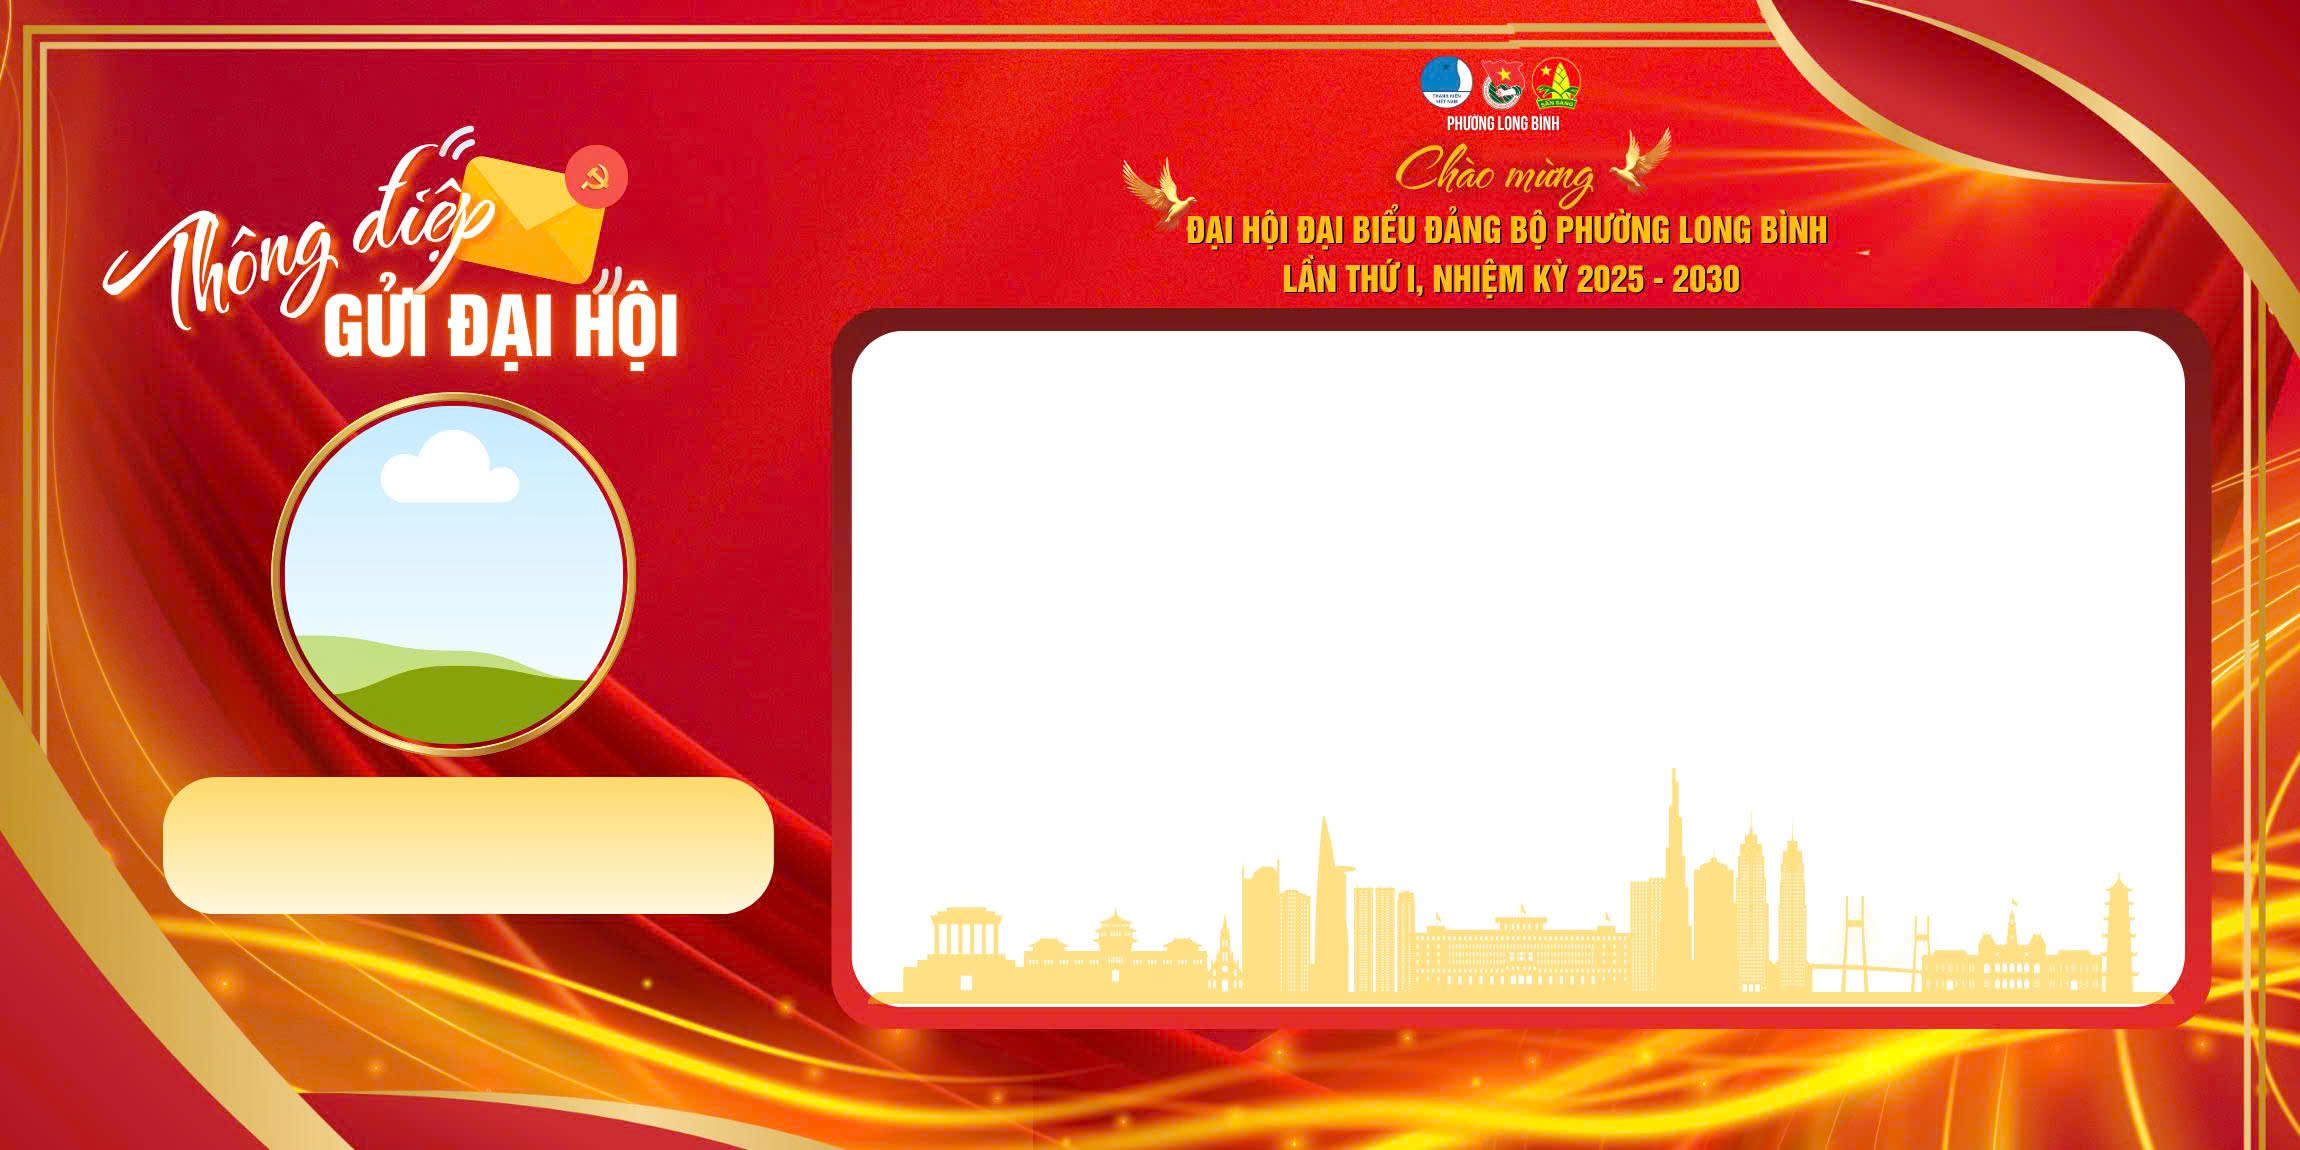
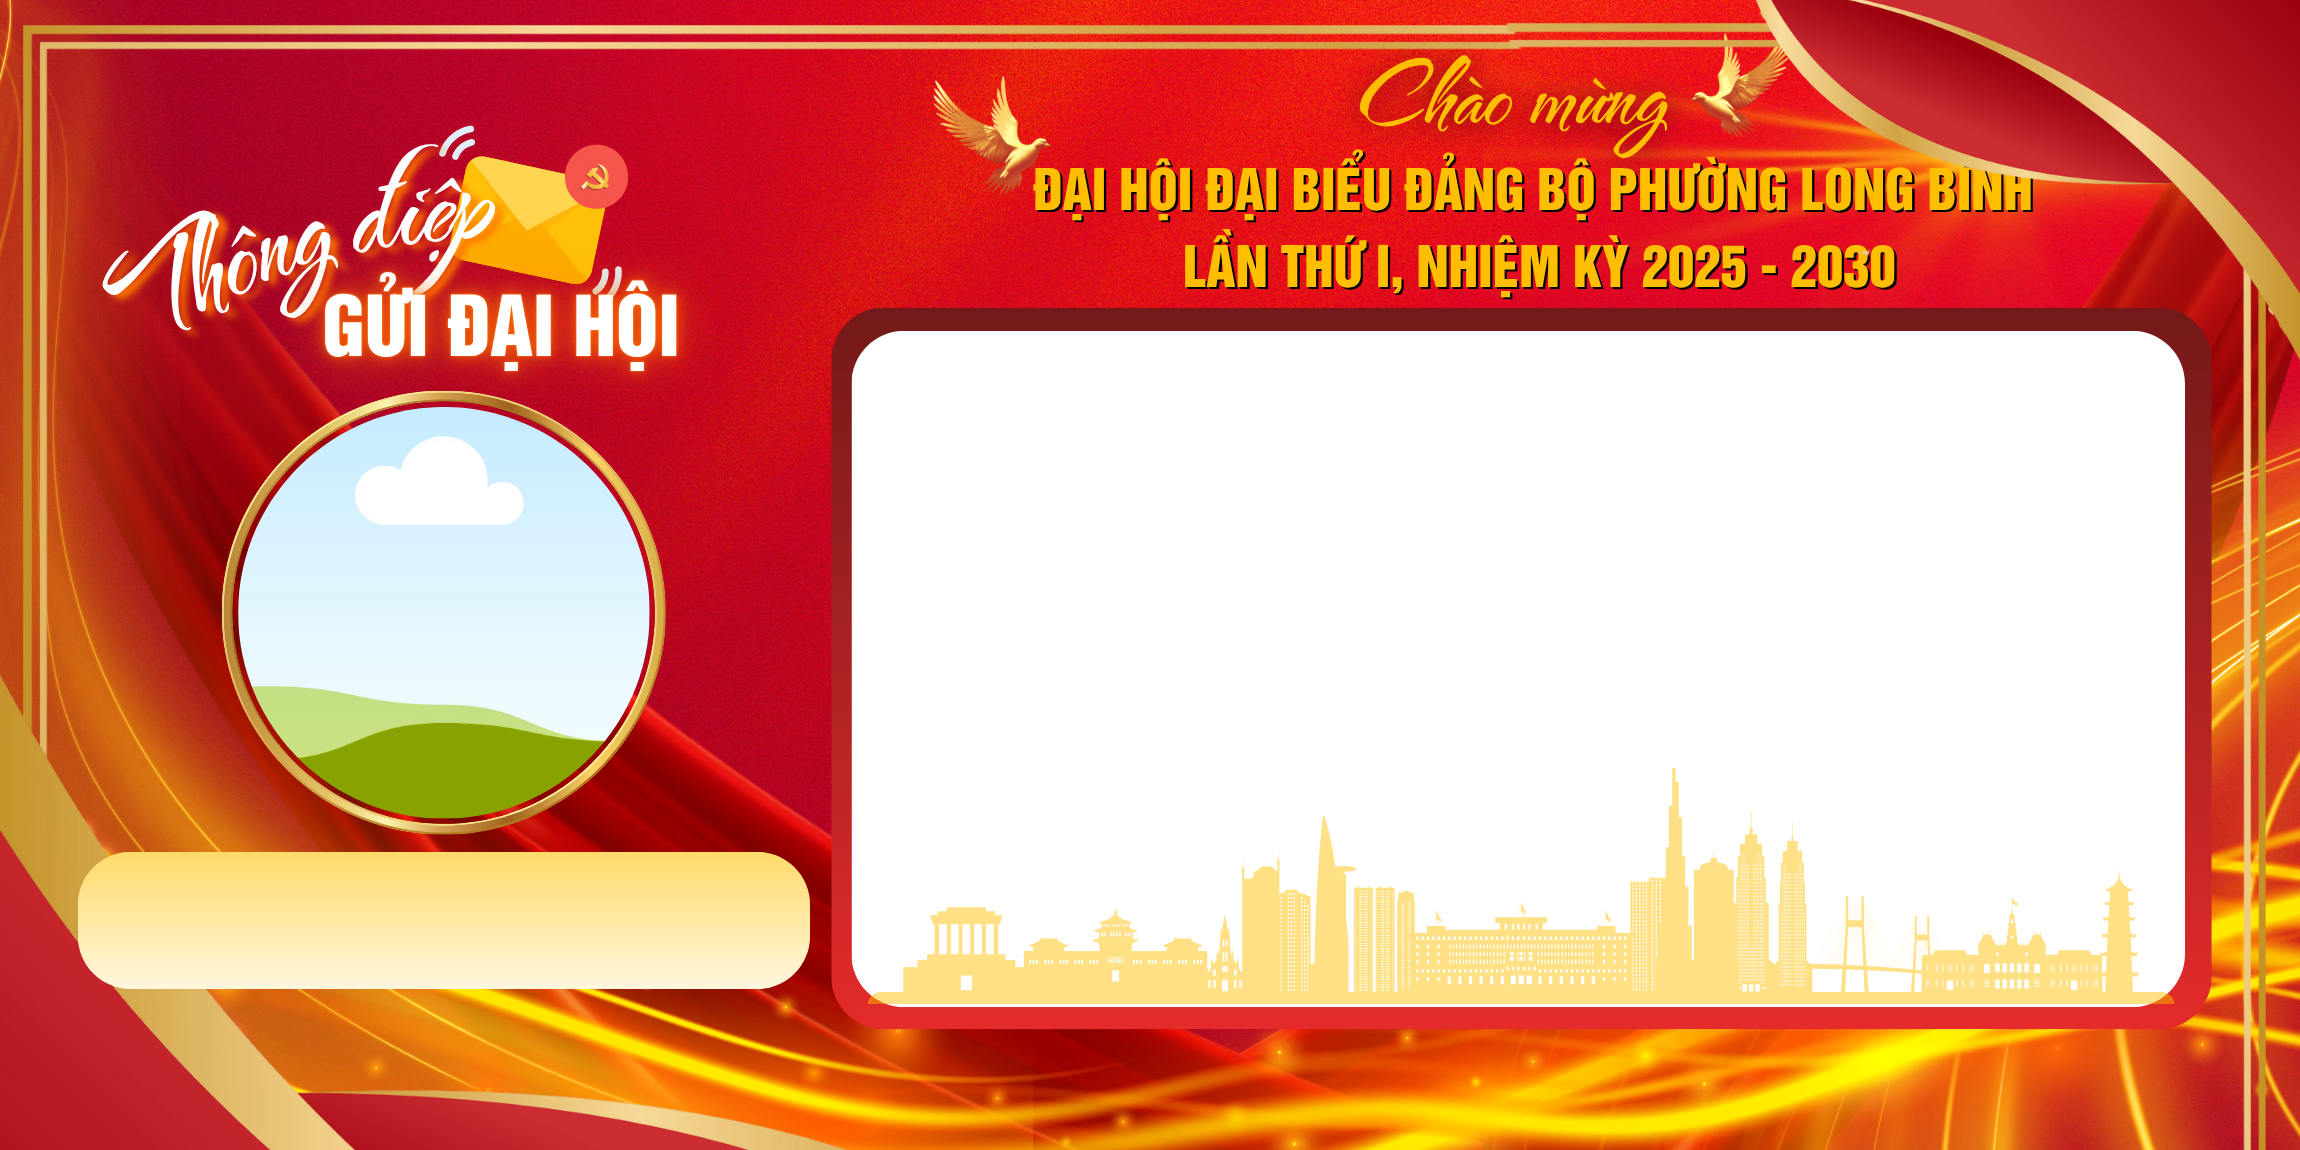
update

diff --git a/assets/js/script.js b/assets/js/script.js
@@ -88,10 +88,10 @@ class MessageCreator {
     const name = this.nameInput.value.trim();
     this.previewName.textContent = name ? `Đồng chí ${name}` : "";
 
-    const baseNameSize = 16;
+    const baseNameSize = window.innerWidth < 768 ? 6 : 16;
     let nameLength = name.length;
     if (nameLength > 0) {
-      let scale = Math.max(0.6, 1 - (nameLength - 10) * 0.02);
+      let scale = Math.max(0.6, 1 - (nameLength - 15) * 0.02);
       this.previewName.style.fontSize = `${baseNameSize * scale}px`;
     } else {
       this.previewName.style.fontSize = `${baseNameSize}px`;
@@ -100,10 +100,10 @@ class MessageCreator {
     const role = this.roleInput.value.trim();
     this.previewRole.textContent = role;
 
-    const baseRoleSize = 16;
+    const baseRoleSize = window.innerWidth < 768 ? 6 : 16;
     let roleLength = role.length;
     if (roleLength > 0) {
-      let scale = Math.max(0.6, 1 - (roleLength - 10) * 0.02);
+      let scale = Math.max(0.6, 1 - (roleLength - 15) * 0.02);
       this.previewRole.style.fontSize = `${baseRoleSize * scale}px`;
     } else {
       this.previewRole.style.fontSize = `${baseRoleSize}px`;
@@ -111,15 +111,6 @@ class MessageCreator {
 
     const message = this.messageInput.value.trim();
     this.previewMessage.textContent = message;
-
-    const baseMsgSize = 16;
-    let msgLength = message.length;
-    if (msgLength > 0) {
-      let scale = Math.max(0.6, 1 - (msgLength - 100) * 0.002);
-      this.previewMessage.style.fontSize = `${baseMsgSize * scale}px`;
-    } else {
-      this.previewMessage.style.fontSize = `${baseMsgSize}px`;
-    }
 
     const hasContent =
       name && this.messageInput.value.trim() && this.avatarInput.files[0];
@@ -143,6 +134,29 @@ class MessageCreator {
     this.setLoading(true);
 
     try {
+      this.previewContainer.style = "width: 1024px";
+      this.previewMessage.style = "font-size: 16px; padding: 8px 16px;";
+      let baseNameSize = 16;
+      let nameLength = this.nameInput.value.length;
+      if (nameLength > 0) {
+        let scale = Math.max(0.6, 1 - (nameLength - 15) * 0.02);
+        this.previewName.style.fontSize = `${baseNameSize * scale}px`;
+      } else {
+        this.previewName.style.fontSize = `${baseNameSize}px`;
+      }
+
+      const role = this.roleInput.value.trim();
+      this.previewRole.textContent = role;
+
+      let baseRoleSize = 16;
+      let roleLength = role.length;
+      if (roleLength > 0) {
+        let scale = Math.max(0.6, 1 - roleLength * 0.02);
+        this.previewRole.style.fontSize = `${baseRoleSize * scale}px`;
+      } else {
+        this.previewRole.style.fontSize = `${baseRoleSize}px`;
+      }
+
       const canvas = await html2canvas(this.previewContainer, {
         useCORS: true,
         allowTaint: true,
@@ -150,6 +164,29 @@ class MessageCreator {
         backgroundColor: "#ffffff",
         logging: false,
       });
+
+      this.previewContainer.style = "width: 100%";
+      this.previewMessage.style =
+        window.innerWidth < 768
+          ? "font-size: 7px; padding: 2px;"
+          : "font-size: 16px; padding: 4px 16px;";
+      baseNameSize = window.innerWidth < 768 ? 6 : 16;
+      if (nameLength > 0) {
+        let scale = Math.max(0.6, 1 - (nameLength - 15) * 0.02);
+        this.previewName.style.fontSize = `${baseNameSize * scale}px`;
+      } else {
+        this.previewName.style.fontSize = `${baseNameSize}px`;
+      }
+
+      this.previewRole.textContent = role;
+
+      baseRoleSize = window.innerWidth < 768 ? 6 : 16;
+      if (roleLength > 0) {
+        let scale = Math.max(0.6, 1 - (roleLength - 15) * 0.02);
+        this.previewRole.style.fontSize = `${baseRoleSize * scale}px`;
+      } else {
+        this.previewRole.style.fontSize = `${baseRoleSize}px`;
+      }
 
       canvas.toBlob(
         (blob) => {

diff --git a/assets/css/style.css b/assets/css/style.css
@@ -309,10 +309,10 @@ body {
 
 .preview-avatar {
   position: absolute;
-  top: 49.85%;
-  left: 19.72%;
-  width: 15.15%;
-  height: 30.3%;
+  top: 53.5%;
+  left: 19.26%;
+  width: 18%;
+  height: 36.0005%;
   max-height: 128px;
   max-width: 128px;
   border-radius: 50%;
@@ -324,27 +324,31 @@ body {
 
 .preview-info {
   position: absolute;
-  top: 74%;
-  left: 19.72%;
-  width: 29%;
+  top: 80%;
+  left: 19.26%;
+  width: 32%;
   background: linear-gradient(
     to bottom,
     rgb(255, 215, 140),
     rgb(255, 236, 202)
   );
   border-radius: 16px;
-  height: 13%;
+  height: 14%;
   transform: translate(-50%, -50%);
   border: 2px rgb(255, 132, 0) solid;
   display: grid;
   grid-template-rows: repeat(2, 1fr);
-  padding: 5px 8px 0;
+  padding: 5px 8px 2px;
   z-index: 10;
   text-align: center;
 }
 
 .preview-info > div {
   line-height: 1;
+  display: flex;
+  align-items: center;
+  text-align: center;
+  justify-content: center;
   font-family: "Lobster", sans-serif;
   font-weight: 600;
   color: rgb(155, 31, 0);
@@ -384,6 +388,10 @@ body {
 }
 
 @media (max-width: 768px) {
+  body {
+    font-size: 7px;
+  }
+
   .form-title {
     font-size: 1.5rem;
   }
@@ -395,5 +403,16 @@ body {
   .avatar-preview {
     width: 100px;
     height: 100px;
+  }
+
+  .preview-info {
+    padding: 1px;
+    line-height: 0.5;
+    border: 1px solid rgb(255, 132, 0);
+  }
+
+  .preview-message {
+    padding: 4px;
+    line-height: 1;
   }
 }

diff --git a/index.html b/index.html
@@ -45,7 +45,7 @@
                 class="form-control"
                 placeholder="Nhập họ và tên"
                 required
-                maxlength="50"
+                maxlength="35"
               />
             </div>
 
